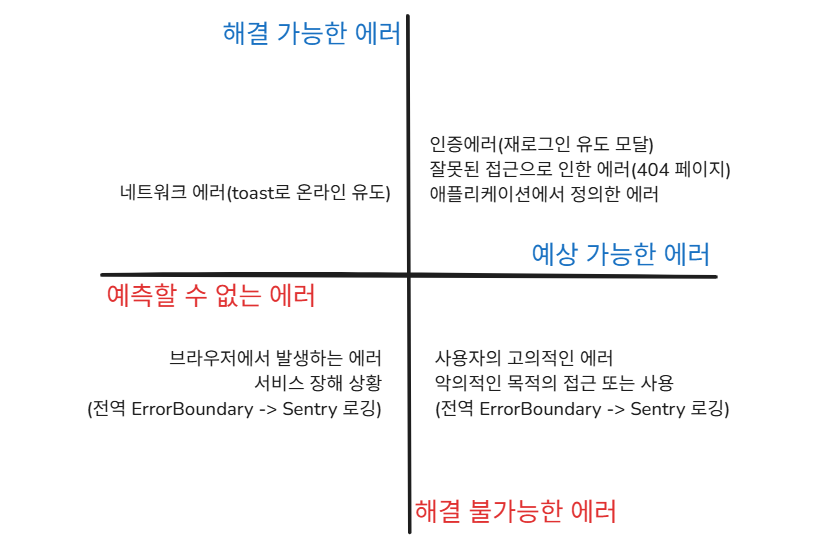
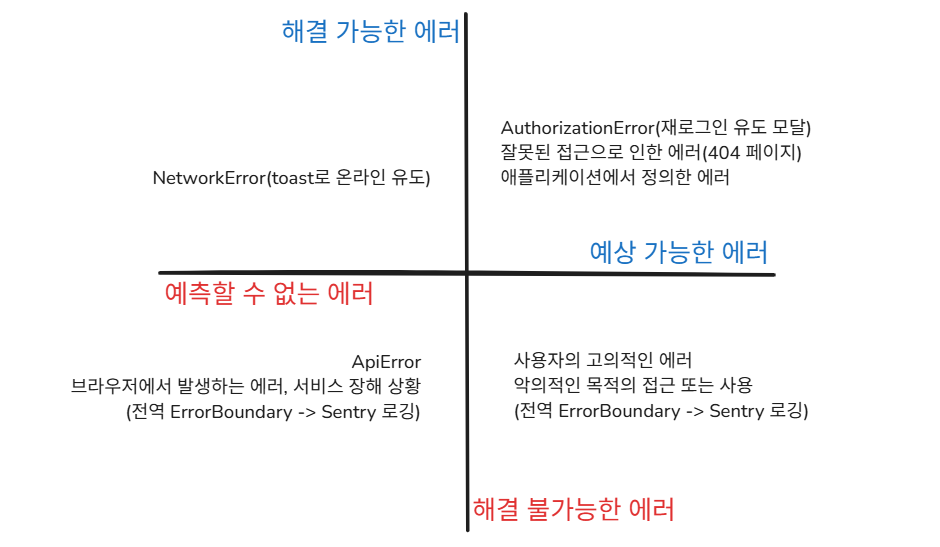
feat: 네트워크 에러 잡기

Changed region(s): [[0.0621, 0.0311, 0.8698, 0.9634], [0.1243, 0.4973, 0.4038, 0.5594], [0.6213, 0.4351, 0.8698, 0.5283]]

diff --git a/src/pages/Projects/descriptions/CoreaDescription/ErrorHandlingContent/ErrorHandlingContent.tsx b/src/pages/Projects/descriptions/CoreaDescription/ErrorHandlingContent/ErrorHandlingContent.tsx
@@ -2,6 +2,7 @@ import "./ErrorHandlingContent.css";
 import errorTypes from "../../../../../assets/error-type.png";
 import getError from "../../../../../assets/get-error.png";
 import restError from "../../../../../assets/rest-error.png";
+import authorizationError from "../../../../../assets/authorization-error.png";
 
 const ErrorHandlingContent = () => {
   return (
@@ -13,7 +14,39 @@ const ErrorHandlingContent = () => {
 
       <br></br>
 
-      <h3>[원인 분석 - 에러 종류 파악]</h3>
+      <h3>[해결방법]</h3>
+      <p>
+        <strong>1) 전역 에러 수집</strong>
+        <br></br>
+        Context API로 전역 에러를 수집하고, <code>queryClient</code>에 에러를 등록하면 <code>ErrorManager</code>가 실행되어 설정된 전략에 따라 적절한 UI를 노출합니다.
+      </p>
+      <p>
+        <strong>GET 요청</strong>
+        <br></br>
+        <img
+          src={getError}
+          alt="get 에러 흐름"
+          width="100%"
+        />
+      </p>
+      <br></br>
+      <p>
+        <strong>POST, PUT, DELETE 요청</strong>
+        <br></br>
+        <img
+          src={restError}
+          alt="나머지 에러 흐름"
+          width="100%"
+        />
+      </p>
+
+      <br></br>
+
+      <p>
+        <strong>2) CustomError로 주요 에러 처리</strong>
+        <br></br>
+        <code>Error</code> 클래스를 상속해 전략(strategy)과 HTTP 상태 코드를 포함하는 <code>CustomError</code>를 구현하고, 이를 기반으로 `AuthorizationError`, `NetworkError`, `ApiError` 등 주요 에러를 일관된 전략으로 처리했습니다.
+      </p>
       <img
         src={errorTypes}
         alt="에러 종류"
@@ -22,41 +55,20 @@ const ErrorHandlingContent = () => {
 
       <br></br>
 
-      <h3>[아키텍처 흐름]</h3>
       <p>
-        <strong>GET 요청</strong>
+        <strong>3) AuthorizationError 시 모달로 재로그인 유도</strong>
         <br></br>
-        <img
-          src={getError}
-          alt="get 에러 흐름"
-          width="70%"
-        />
-      </p>
-
-      <br></br>
-
-      <p>
-        <strong>POST, PUT, DELETE 요청</strong>
-        <br></br>
-        <img
-          src={restError}
-          alt="나머지 에러 흐름"
-          width="70%"
-        />
-      </p>
-
-      <br></br>
-
-      <h3>[해결방법]</h3>
-      <p>
-        1) <strong>CustomError 전략 패턴</strong> 도입 → Toast / Modal / Redirect / Fallback 역할 분리
-        <br></br>
-        2) <strong>AuthorizationError</strong> 발생 시 “자동 로그인 모달”로 처리
+        <strong>AuthorizationError</strong> 발생 시 “자동 로그인 모달”로 처리
         <code>onConfirm</code>: 재로그인, <code>onCancel</code>: 홈 이동
         <br></br>
-        3) <strong>TanStack Query networkMode</strong> +<strong> 네트워크 감지 훅</strong> 활용 → 오프라인 toast 안내, 온라인 복귀 시 자동 재시도
       </p>
+      <img
+        src={authorizationError}
+        alt="재로그인 유도 화면"
+        width="70%"
+      />
 
+      <br></br>
       <br></br>
 
       <h3>[성과]</h3>

diff --git a/src/pages/Projects/descriptions/CoreaDescription/BlurUIContent/BlurUIContent.tsx b/src/pages/Projects/descriptions/CoreaDescription/BlurUIContent/BlurUIContent.tsx
@@ -7,8 +7,8 @@ const BlurUIContent = () => {
       <h3>[문제점]</h3>
       <p>
         기존 서비스는 <strong>코드 리뷰 마감일</strong> 이전까지만 피드백 작성 및 수정을 허용했으나, 다음과 같은 사용자 피드백이 있었습니다.
-        <br></br>- "3명에게 코드 리뷰와 피드백을 했는데 누구한테도 피드백을 받지 못 하였습니다."
-        <br></br>- "깜빡하고 피드백을 안 썼는데 방이 마감되어 쓰지 못 했습니다."
+        <br></br>• "3명에게 코드 리뷰와 피드백을 했는데 누구한테도 피드백을 받지 못 하였습니다."
+        <br></br>• "깜빡하고 피드백을 안 썼는데 방이 마감되어 쓰지 못 했습니다."
       </p>
 
       <br></br>
@@ -34,8 +34,8 @@ const BlurUIContent = () => {
 
       <h3>[성과]</h3>
       <p>
-        - "피드백을 받지 못하는 문제"를 효과적으로 해결하며 사용자 만족도 향상시켰습니다.
-        <br></br>- 사용자 스스로 피드백을 작성하도록 유도하였고, 마감 기한 이후 작성된 피드백이 <strong>총 69건 추가</strong>되었으며, 피드백 작성률이 7.5% 증가하였습니다.
+        • "피드백을 받지 못하는 문제"를 효과적으로 해결하며 사용자 만족도 향상시켰습니다.
+        <br></br>• 사용자 스스로 피드백을 작성하도록 유도하였고, 마감 기한 이후 작성된 피드백이 <strong>총 69건 추가</strong>되었으며, 피드백 작성률이 7.5% 증가하였습니다.
         <br></br>
         이전: 452건(49.8%)
         <br></br>
@@ -46,8 +46,8 @@ const BlurUIContent = () => {
 
       <h3>[배운점]</h3>
       <p>
-        - 사용자 피드백을 반영한 기능 개선이 서비스 경험에 미치는 긍정적 효과를 체감하였습니다.
-        <br></br>- 마감 기한 기반 서비스의 UX 유연성을 높이는 방법을 설계하고 적용하는 경험을 쌓았습니다.
+        • 사용자 피드백을 반영한 기능 개선이 서비스 경험에 미치는 긍정적 효과를 체감하였습니다.
+        <br></br>• 마감 기한 기반 서비스의 UX 유연성을 높이는 방법을 설계하고 적용하는 경험을 쌓았습니다.
       </p>
     </div>
   );

diff --git a/src/pages/Projects/descriptions/CoreaDescription/NetworkErrorContent/NetworkErrorContent.tsx b/src/pages/Projects/descriptions/CoreaDescription/NetworkErrorContent/NetworkErrorContent.tsx
@@ -1,7 +1,70 @@
-import React from "react";
+import "./NetworkErrorContent.css";
 
 const NetworkErrorContent = () => {
-  return <div>NetworkErrorContent</div>;
+  return (
+    <div className="network-error-content">
+      <h3>[문제점]</h3>
+      <p>저희 서비스는 오프라인일 때 이용할 수 있는 서비스가 없기 때문에 사용자의 빠른 네트워크 연결을 유도해야 합니다.</p>
+
+      <br></br>
+
+      <h3>[navigator.onLine 문제]</h3>
+      <p>
+        Chrome 계열 브라우저에서 <code>navigator.onLine</code>이 거짓 네거티브를 반환해, 실제 오프라인 상태인데도 온라인으로 판단되어 잘못된 UX가 발생했습니다.
+        <br></br>
+        탠스택 쿼리의 <code>onlineManager.ts</code> 코드를 참고하여 useNetwork 훅을 만들었습니다.
+      </p>
+
+      <br></br>
+
+      <h3>[개선 사항]</h3>
+      <table className="network-improvements-table">
+        <thead>
+          <tr>
+            <th>개선 항목</th>
+            <th>기존</th>
+            <th>개선 후</th>
+          </tr>
+        </thead>
+        <tbody>
+          <tr>
+            <td>queries.networkMode</td>
+            <td>
+              networkMode: "always",
+              <br />
+              Fallback UI
+            </td>
+            <td>
+              networkMode: "online"
+              <br />
+              온라인 복귀 시 자동 fetching
+            </td>
+          </tr>
+          <tr>
+            <td>오프라인 Toast</td>
+            <td>
+              Toast 한 번,
+              <br />
+              사용자가 못 보는 이슈
+            </td>
+            <td>
+              무한 Toast(Infinity)
+              <br />
+              온라인 복귀 시 close + 성공 Toast
+            </td>
+          </tr>
+          <tr>
+            <td>Fallback UI</td>
+            <td>모든 오류에 Default Fallback</td>
+            <td>
+              NetworkError일 때<br />
+              NetworkFallback UI 제공
+            </td>
+          </tr>
+        </tbody>
+      </table>
+    </div>
+  );
 };
 
 export default NetworkErrorContent;

diff --git a/src/pages/Projects/descriptions/CoreaDescription/NetworkErrorContent/NetworkErrorContent.css b/src/pages/Projects/descriptions/CoreaDescription/NetworkErrorContent/NetworkErrorContent.css
@@ -1,5 +1,5 @@
 /* TokenRefreshContent.css */
-.error-handling-content {
+.network-error-content {
   display: block;
   padding: 1.5rem;
   font-family: "Noto Sans KR", sans-serif;
@@ -10,7 +10,7 @@
 }
 
 /* 섹션 제목 */
-.error-handling-content h3 {
+.network-error-content h3 {
   margin: 1.5rem 0 0.75rem;
   font-size: 1.4rem;
   color: #222;
@@ -19,7 +19,7 @@
 }
 
 /* 기존 인라인 코드 설정 유지 */
-.error-handling-content code {
+.network-error-content code {
   display: inline-block;
   white-space: nowrap;
   margin: 0 0.3em;
@@ -33,8 +33,24 @@
 }
 
 /* 일반 문단 */
-.error-handling-content p {
+.network-error-content p {
   display: block;
   margin: 0.5rem 0;
   font-size: 1.2rem;
+}
+
+.network-improvements-table {
+  width: 100%;
+  border-collapse: collapse;
+  margin: 1rem 0;
+  font-size: 1.2rem;
+}
+.network-improvements-table th,
+.network-improvements-table td {
+  border: 1px solid #ddd;
+  padding: 0.75rem;
+  text-align: left;
+}
+.network-improvements-table th {
+  background: #f5f5f5;
 }

diff --git a/src/pages/Projects/descriptions/CoreaDescription/TokenRefreshContent/TokenRefreshContent.tsx b/src/pages/Projects/descriptions/CoreaDescription/TokenRefreshContent/TokenRefreshContent.tsx
@@ -14,7 +14,7 @@ const TokenRefreshContent = () => {
       <img
         src={refreshToken1}
         alt="리프레시 토큰 이전 화면"
-        width="80%"
+        width="100%"
       />
 
       <br></br>
@@ -44,7 +44,7 @@ const TokenRefreshContent = () => {
       <img
         src={refreshToken2}
         alt="리프레시 토큰 이후 화면"
-        width="80%"
+        width="100%"
       />
     </div>
   );
